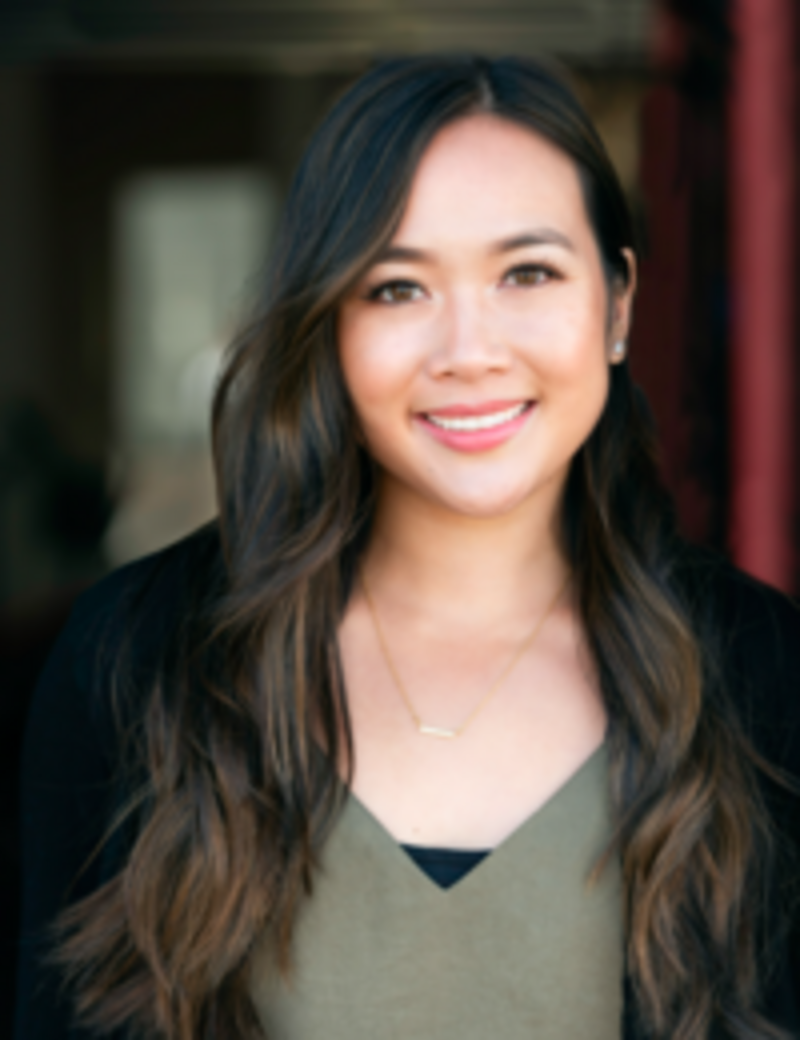
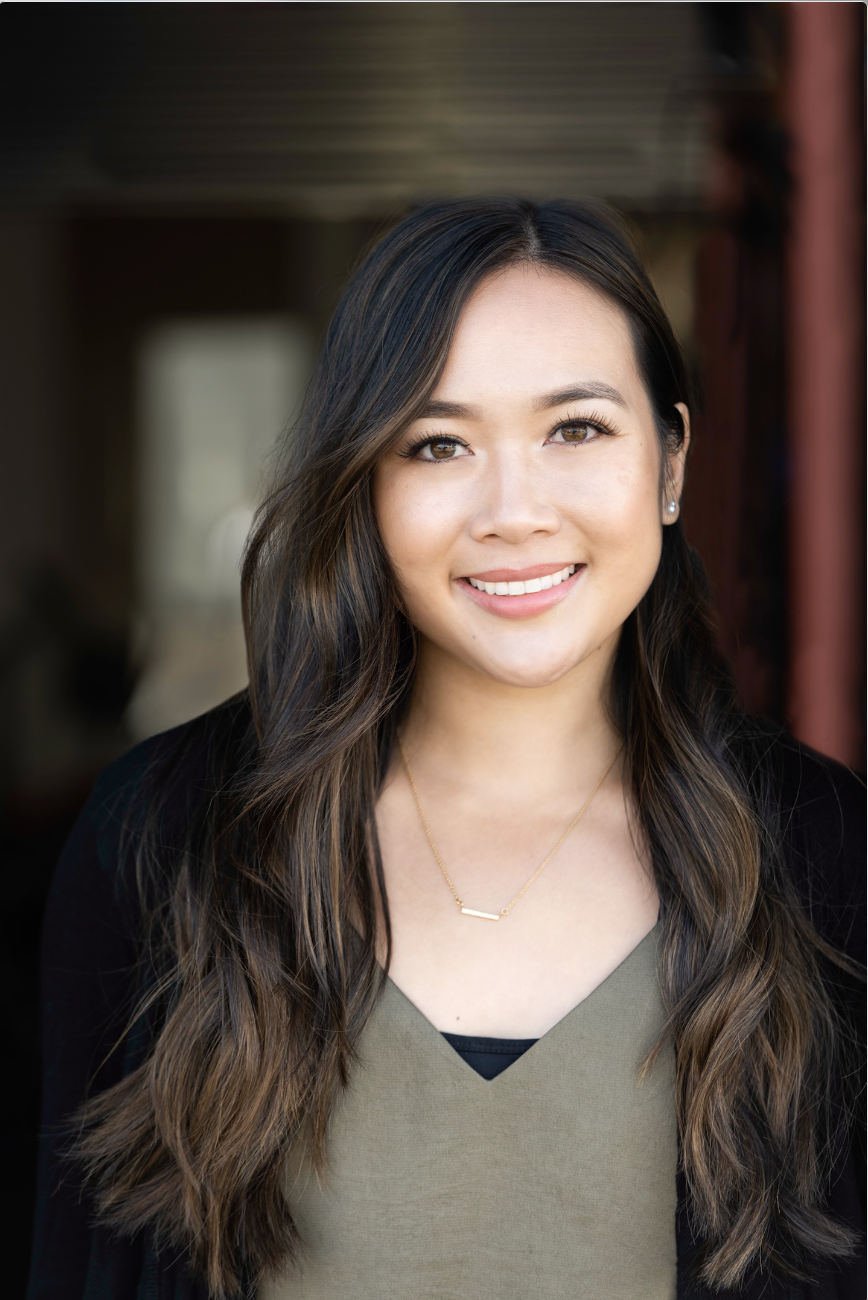
Fix styling and improve photo

diff --git a/index.html b/index.html
@@ -16,7 +16,8 @@
             min-height: 100vh;
         }
         .container {
-            width: 80%;
+            width: 90%;
+            max-width: 1200px;
             margin: auto;
             overflow: hidden;
         }
@@ -27,28 +28,33 @@
         }
         .header-content {
             display: flex;
+            flex-wrap: wrap;
             justify-content: space-between;
             align-items: center;
         }
         .logo-container {
             display: flex;
             align-items: center;
+            flex-grow: 1;
         }
         header img {
-            height: 50px;
-            margin-right: 10px;
+            height: 80px;
+            margin-right: 15px;
         }
         .company-name {
-            font-size: 1.2rem;
+            font-size: 1.4rem;
             font-weight: bold;
+        }
+        nav {
+            margin-top: 10px;
         }
         nav ul {
             list-style: none;
             padding: 0;
             margin: 0;
+            display: flex;
         }
         nav li {
-            display: inline;
             margin-left: 20px;
         }
         nav a {
@@ -87,19 +93,45 @@
         }
         .footer-content {
             display: flex;
-            justify-content: space-between;
+            flex-direction: column;
             align-items: center;
         }
         .contact-info {
-            text-align: left;
+            text-align: center;
+            margin-bottom: 20px;
         }
         .copyright {
-            text-align: right;
+            text-align: center;
         }
         .about-image {
             float: right;
             margin: 0 0 20px 20px;
             max-width: 300px;
+        }
+
+        @media (max-width: 768px) {
+            .header-content {
+                flex-direction: column;
+                align-items: flex-start;
+            }
+            .logo-container {
+                margin-bottom: 10px;
+            }
+            nav {
+                width: 100%;
+            }
+            nav ul {
+                justify-content: space-between;
+            }
+            nav li {
+                margin-left: 0;
+            }
+            .about-image {
+                float: none;
+                display: block;
+                margin: 0 auto 20px;
+                max-width: 100%;
+            }
         }
     </style>
 </head>
@@ -125,7 +157,7 @@
     <section class="hero">
         <div class="container">
             <h1>Empowering Your Journey to Healing</h1>
-            <a href="https://lastingperformancept.janeapp.com" class="btn">Schedule Now</a>
+            <a href="#contact" class="btn">Schedule Now</a>
         </div>
     </section>
 
